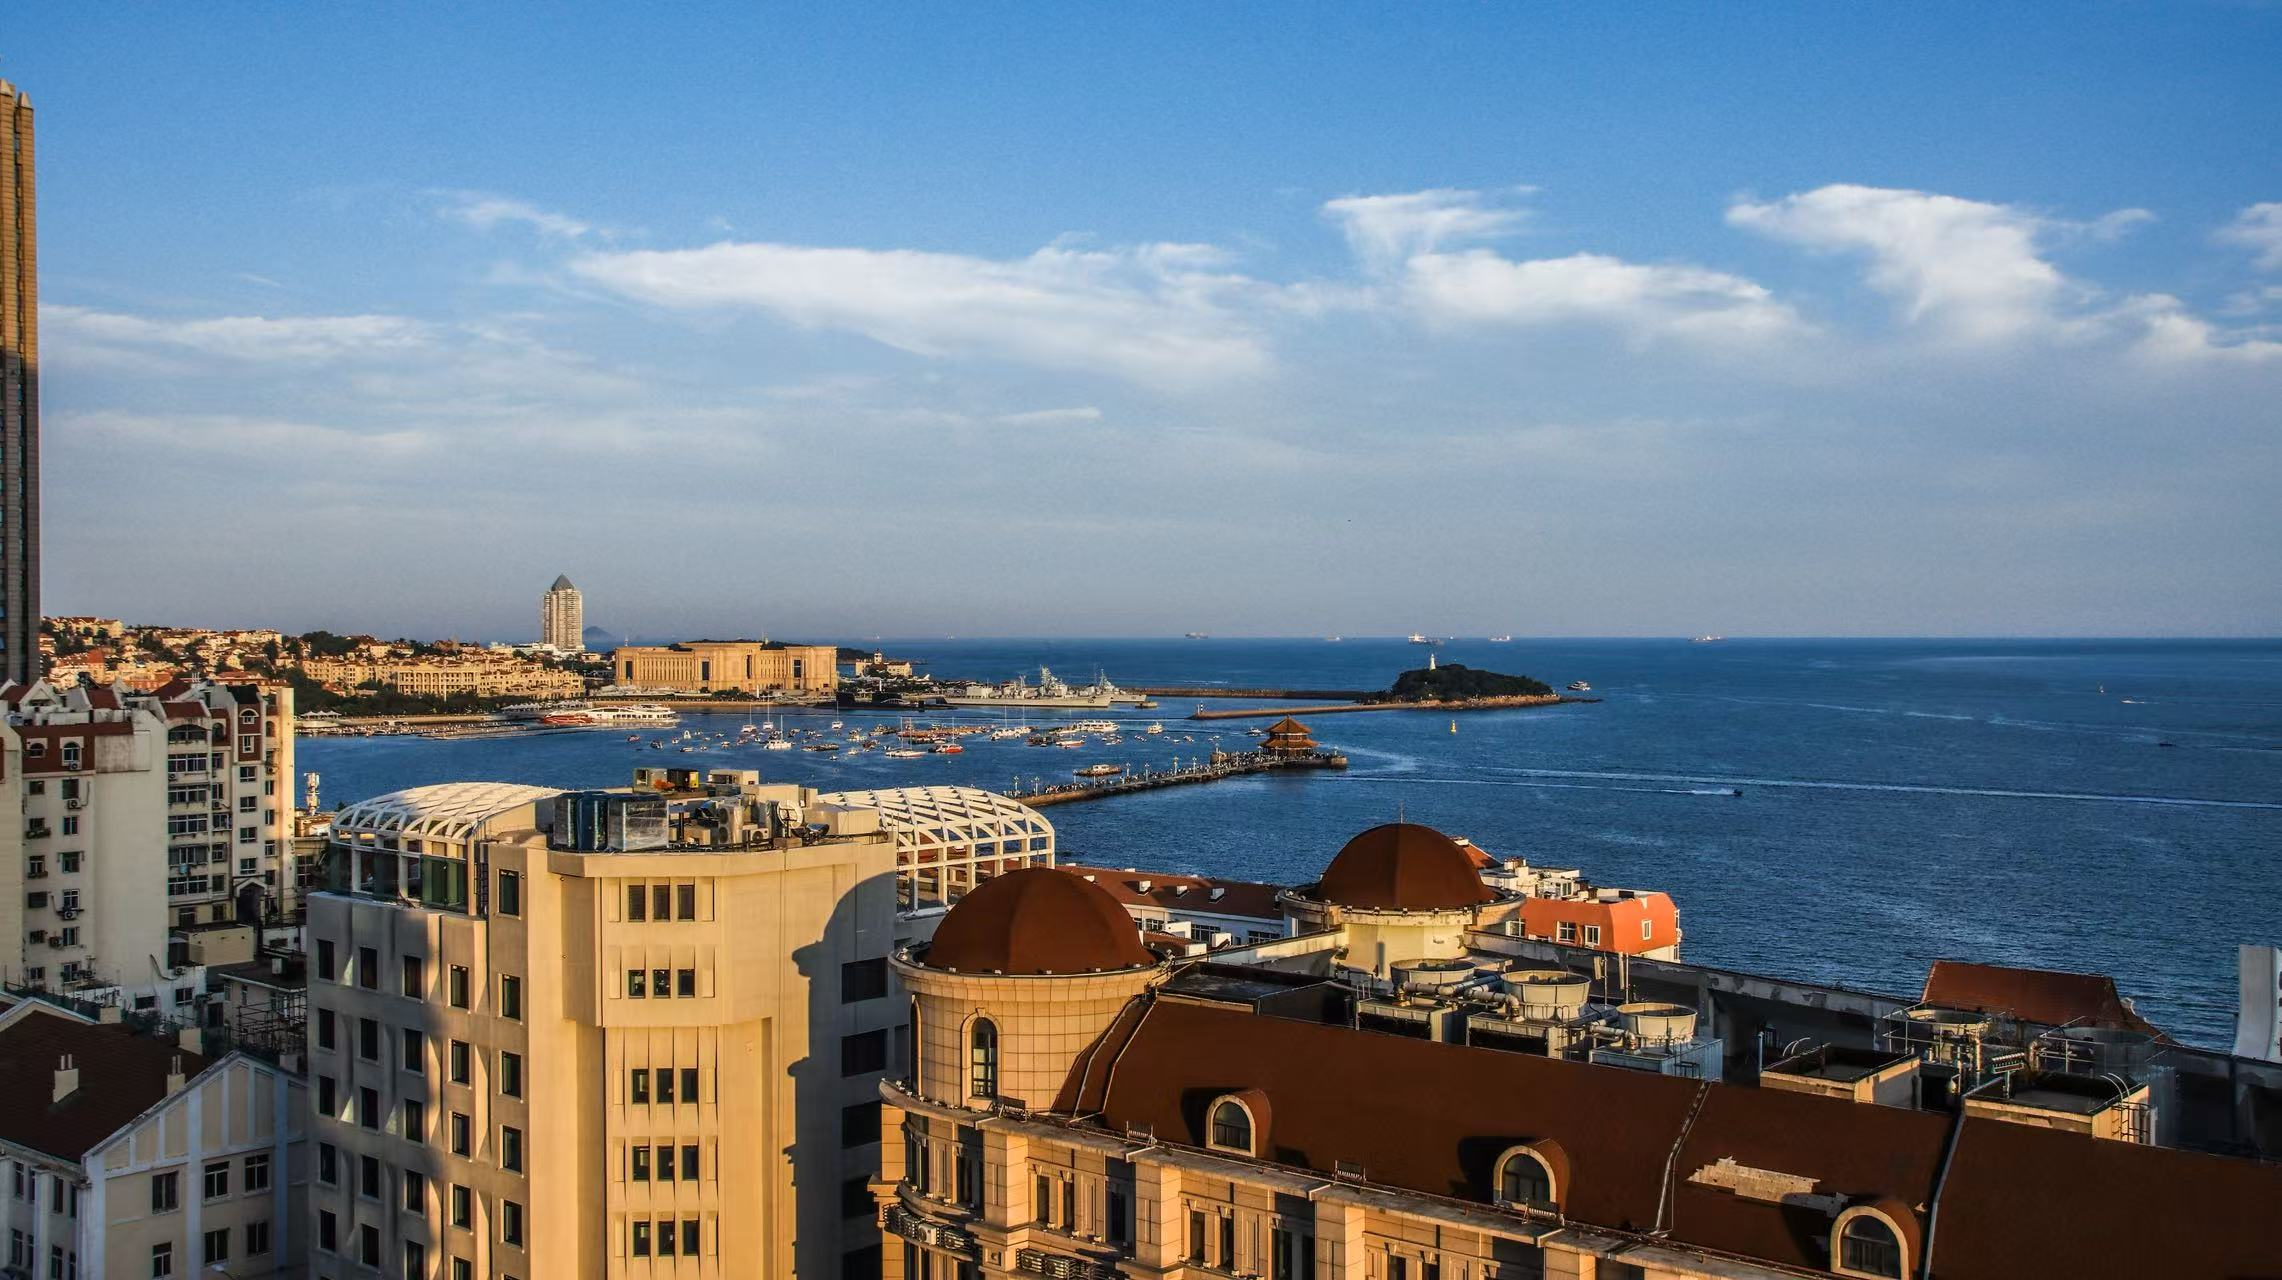
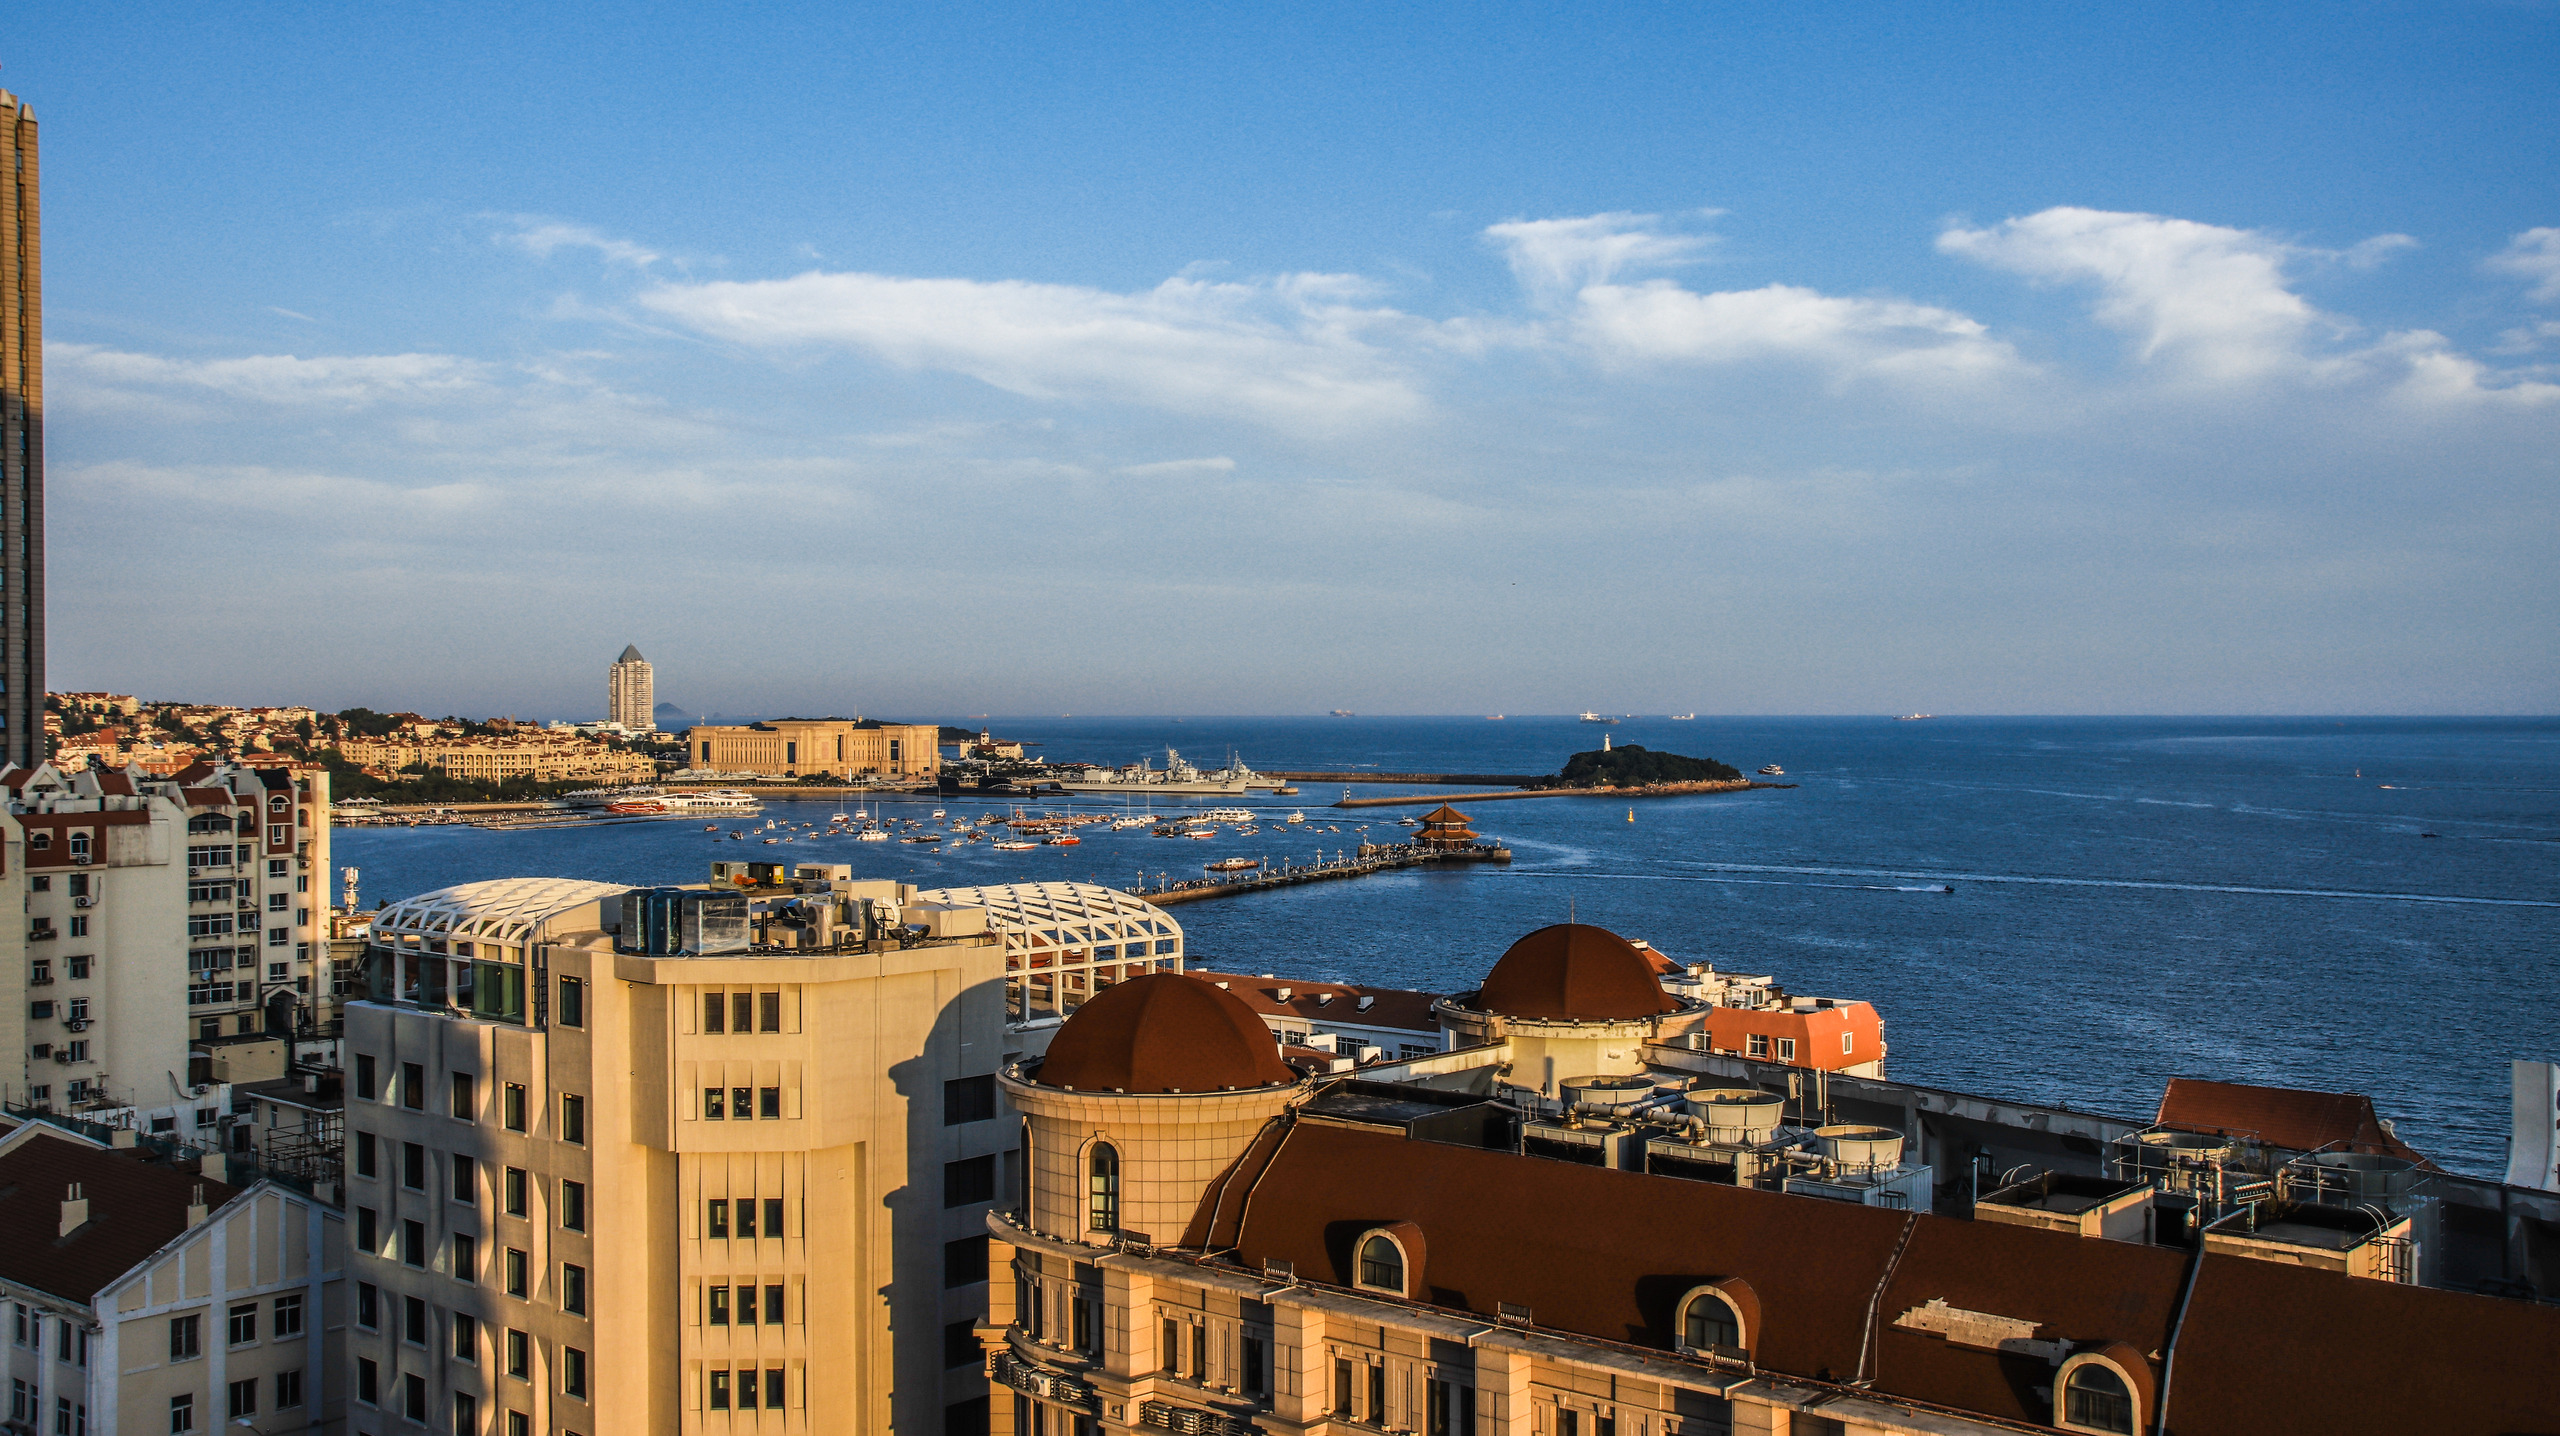
Use high quality homepage harbor image

diff --git a/src/styles/global.css b/src/styles/global.css
@@ -289,6 +289,7 @@ body.inner-page .nav {
   grid-template-columns: minmax(230px, 280px) minmax(0, 1fr);
   gap: 26px;
   align-items: center;
+  min-width: 0;
   padding: 16px;
   border: 1px solid rgba(255, 255, 255, 0.16);
   border-radius: var(--radius-lg);
@@ -312,6 +313,7 @@ body.inner-page .nav {
 .featured-content {
   display: grid;
   gap: 14px;
+  min-width: 0;
 }
 
 .featured-kicker,
@@ -796,6 +798,11 @@ body.inner-page .nav {
   .featured-story {
     padding: 14px;
     border-radius: 24px;
+  }
+
+  .featured-content h2 {
+    font-size: clamp(1.55rem, 7vw, 2rem);
+    overflow-wrap: anywhere;
   }
 
   .featured-thumb {